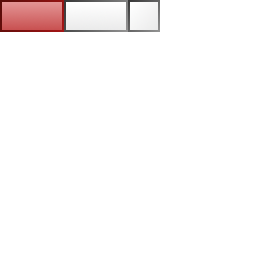
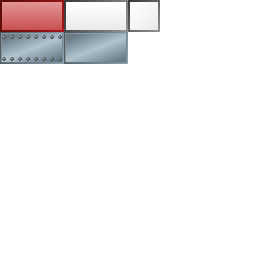
Added multi-hit bricks
Also extended ImageBrickBuilder functionality

Changed region(s): [[0.0, 0.125, 0.5, 0.25]]

diff --git a/Ball/src/com/sss/ball/builder/ImageBrickBuilder.java b/Ball/src/com/sss/ball/builder/ImageBrickBuilder.java
@@ -2,18 +2,27 @@ package com.sss.ball.builder;
 
 import java.awt.image.BufferedImage;
 import java.io.IOException;
-import java.nio.Buffer;
+import java.util.Vector;
 
 import javax.imageio.ImageIO;
 
+import com.sss.ball.Brick;
 import com.sss.ball.Builder;
 import com.sss.ball.GameState;
 import com.sss.ball.Util;
+import com.sss.ball.bricks.MultiHitBrick;
 import com.sss.ball.bricks.PixelBrick;
 import com.sss.ball.bricks.SimpleBrick;
 import com.sss.ball.xml.XMLNode;
 
 public class ImageBrickBuilder extends Builder {
+
+    static class BrickType {
+        int color;
+        int type;
+        String className;
+    }
+    private Vector<BrickType> mMap = new Vector<BrickType>();
 
     @Override
     protected void init(XMLNode xml, GameState gameState) {
@@ -22,6 +31,18 @@ public class ImageBrickBuilder extends Builder {
         float brickHeight = Float.parseFloat(xml.getAttr("brickHeight"));
         float x = 0;
         float y = 0;
+
+        // Fetch mapping
+        for (int i = 0; i < xml.getChildCount(); i++) {
+            XMLNode child = xml.getChild(i);
+            if (child.getName().equals("mapping")) {
+                BrickType bt = new BrickType();
+                bt.color = Util.parseColor(child.getAttr("color"));
+                bt.type = Integer.parseInt(child.getAttr("type"));
+                bt.className = child.getAttr("class");
+                mMap.add(bt);
+            }
+        }
 
         // decode image
         String imageName = xml.getAttr("image");
@@ -42,13 +63,42 @@ public class ImageBrickBuilder extends Builder {
                 int color = rgb[i*iw + j];
                 if (((color >> 24) & 0xff) >= 0xf0) {
                     // Opaque pixel, so add a brick
-                    PixelBrick brick = new PixelBrick(gameState, color, x, y, brickWidth, brickHeight);
+                    // first check the mapping
+                    Brick brick = findBrick(gameState, color);
+                    // if not found, simply colorize a brick
+                    if (brick == null) {
+                        brick = new PixelBrick(gameState, color, x, y, brickWidth, brickHeight);
+                    } else {
+                        // still need to store position and size
+                        brick.setX(x);
+                        brick.setY(y);
+                        brick.setWidth(brickWidth);
+                        brick.setHeight(brickHeight);
+                    }
+
                     gameState.addBrick(brick);
                 }
                 x += brickWidth;
             }
             y += brickHeight;
         }
+    }
+
+    private Brick findBrick(GameState gameState, int color) {
+        Brick brick = null;
+        color &= 0xf0f0f0;
+        for (BrickType bt : mMap) {
+            if (color == (bt.color & 0xf0f0f0)) {
+                // found a match, now create the appropiate brick
+                // TODO: refactor so class names won't be hardcoded
+                if (bt.className == null) {
+                    brick = new SimpleBrick(gameState, bt.type);
+                } else if (bt.className.equals("MultiHitBrick")) {
+                    brick = new MultiHitBrick(gameState, bt.type);
+                }
+            }
+        }
+        return brick;
     }
 
 }

diff --git a/Ball/src/com/sss/ball/bricks/SimpleBrick.java b/Ball/src/com/sss/ball/bricks/SimpleBrick.java
@@ -17,6 +17,11 @@ public class SimpleBrick extends Brick {
         setHeight(height);
     }
 
+    public SimpleBrick(GameState gameState, int type) {
+        super(gameState);
+        mBrickType = type;
+    }
+
     @Override
     public void render() {
         super.render();
@@ -26,6 +31,14 @@ public class SimpleBrick extends Brick {
         G.drawImage(getGameState().getTexBricks(),
                 getX(), getY(), getWidth(), getHeight(),
                 col * 64/256.0f, row * 32/256.0f, 64/256.0f, 32/256.0f);
+    }
+
+    public void setBrickType(int type) {
+        mBrickType = type;
+    }
+
+    public int getBrickType() {
+        return mBrickType;
     }
 
 }

diff --git a/Ball/src/com/sss/ball/bricks/MultiHitBrick.java b/Ball/src/com/sss/ball/bricks/MultiHitBrick.java
@@ -1,0 +1,28 @@
+package com.sss.ball.bricks;
+
+import com.sss.ball.GameState;
+
+public class MultiHitBrick extends SimpleBrick {
+
+    private int mHitCount = 1;
+
+    public MultiHitBrick(GameState gameState, int type) {
+        super(gameState, type);
+        switch (type) {
+            case 5: mHitCount = 2;
+            default: // TODO: unknown brick type
+        }
+    }
+
+    @Override
+    public boolean onHit() {
+        // Change type
+        switch (getBrickType()) {
+        case 5: setBrickType(6); break;
+        }
+        // Count hits
+        mHitCount--;
+        return mHitCount == 0;
+    }
+
+}

diff --git a/Ball/src/com/sss/ball/GameState.java b/Ball/src/com/sss/ball/GameState.java
@@ -35,7 +35,7 @@ public class GameState extends State {
         mTexBricks = TextureUtil.loadTexture("/gfx/bricks.png");
         mTexRackets = TextureUtil.loadTexture("/gfx/rackets.png");
 
-        loadLevel("/packs/def/level02.xml");
+        loadLevel("/packs/def/level03.xml");
 
         mSprites.add(mRacket);
         addNewBall();
